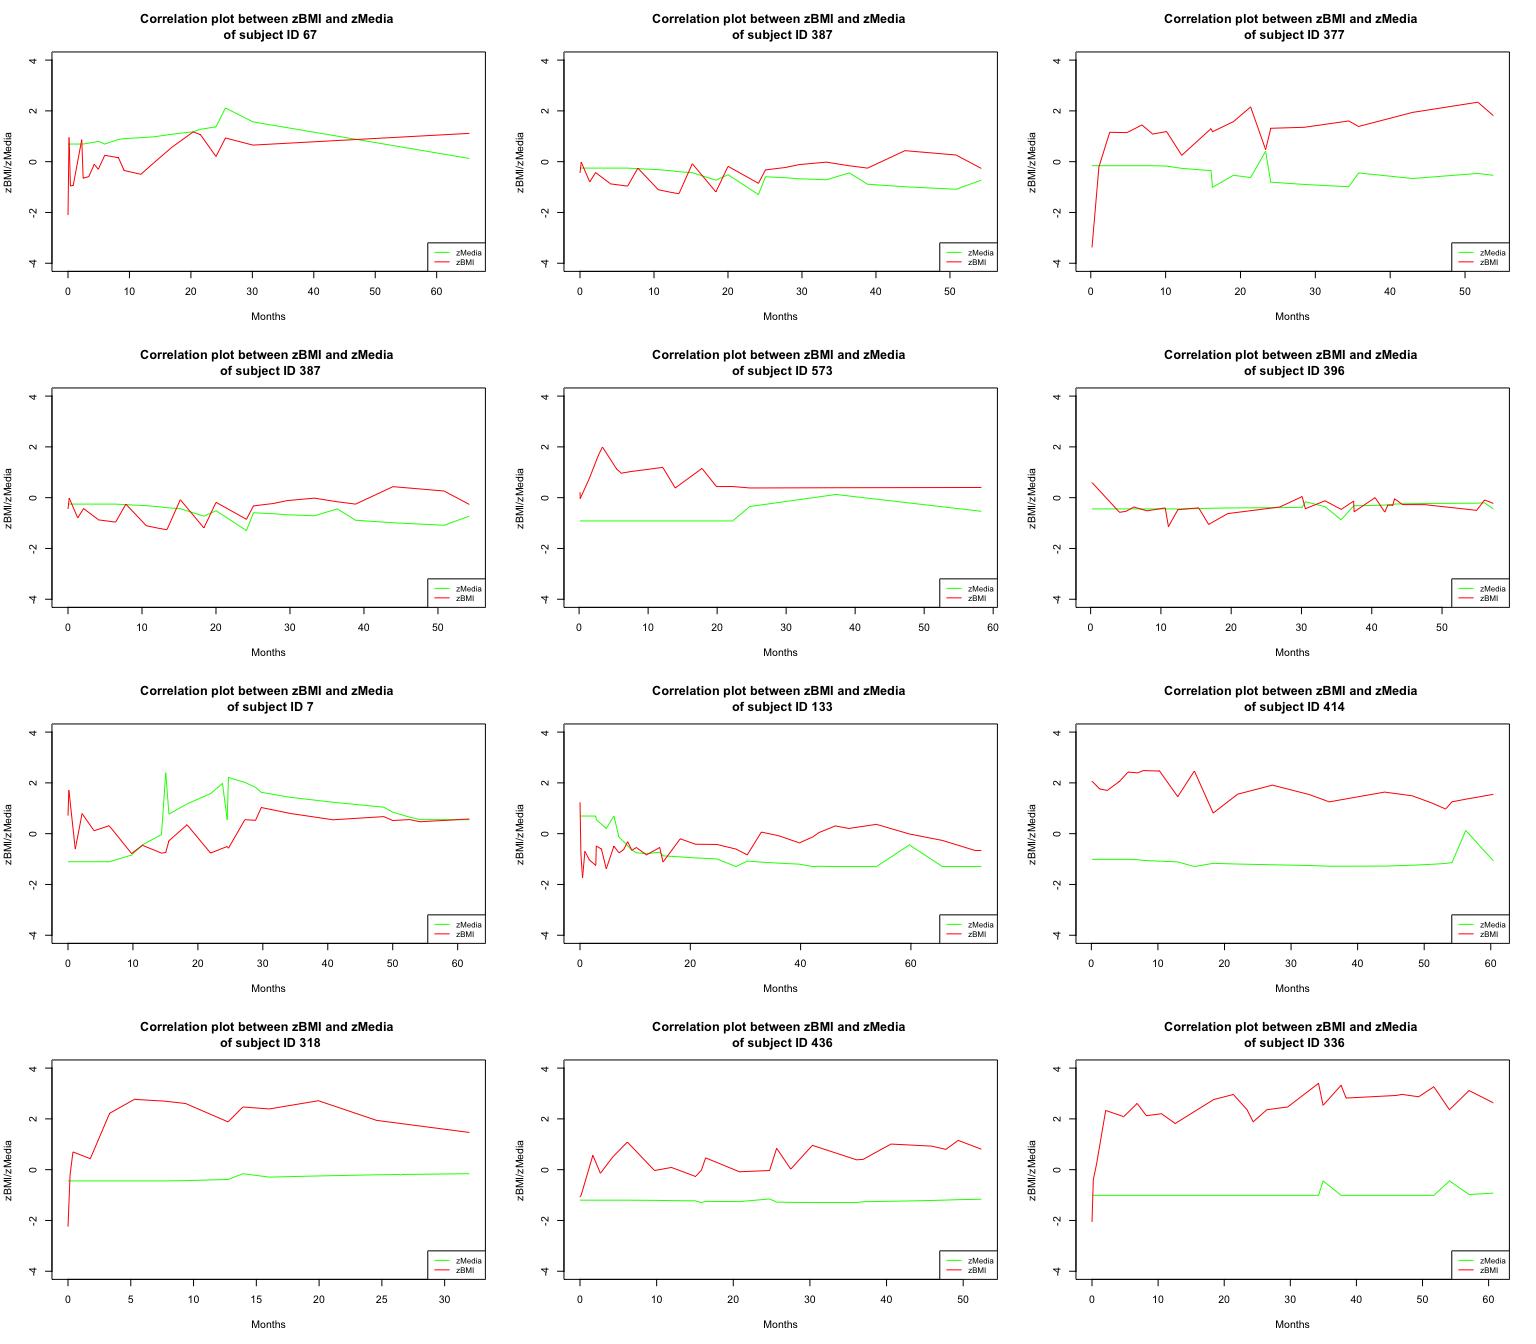
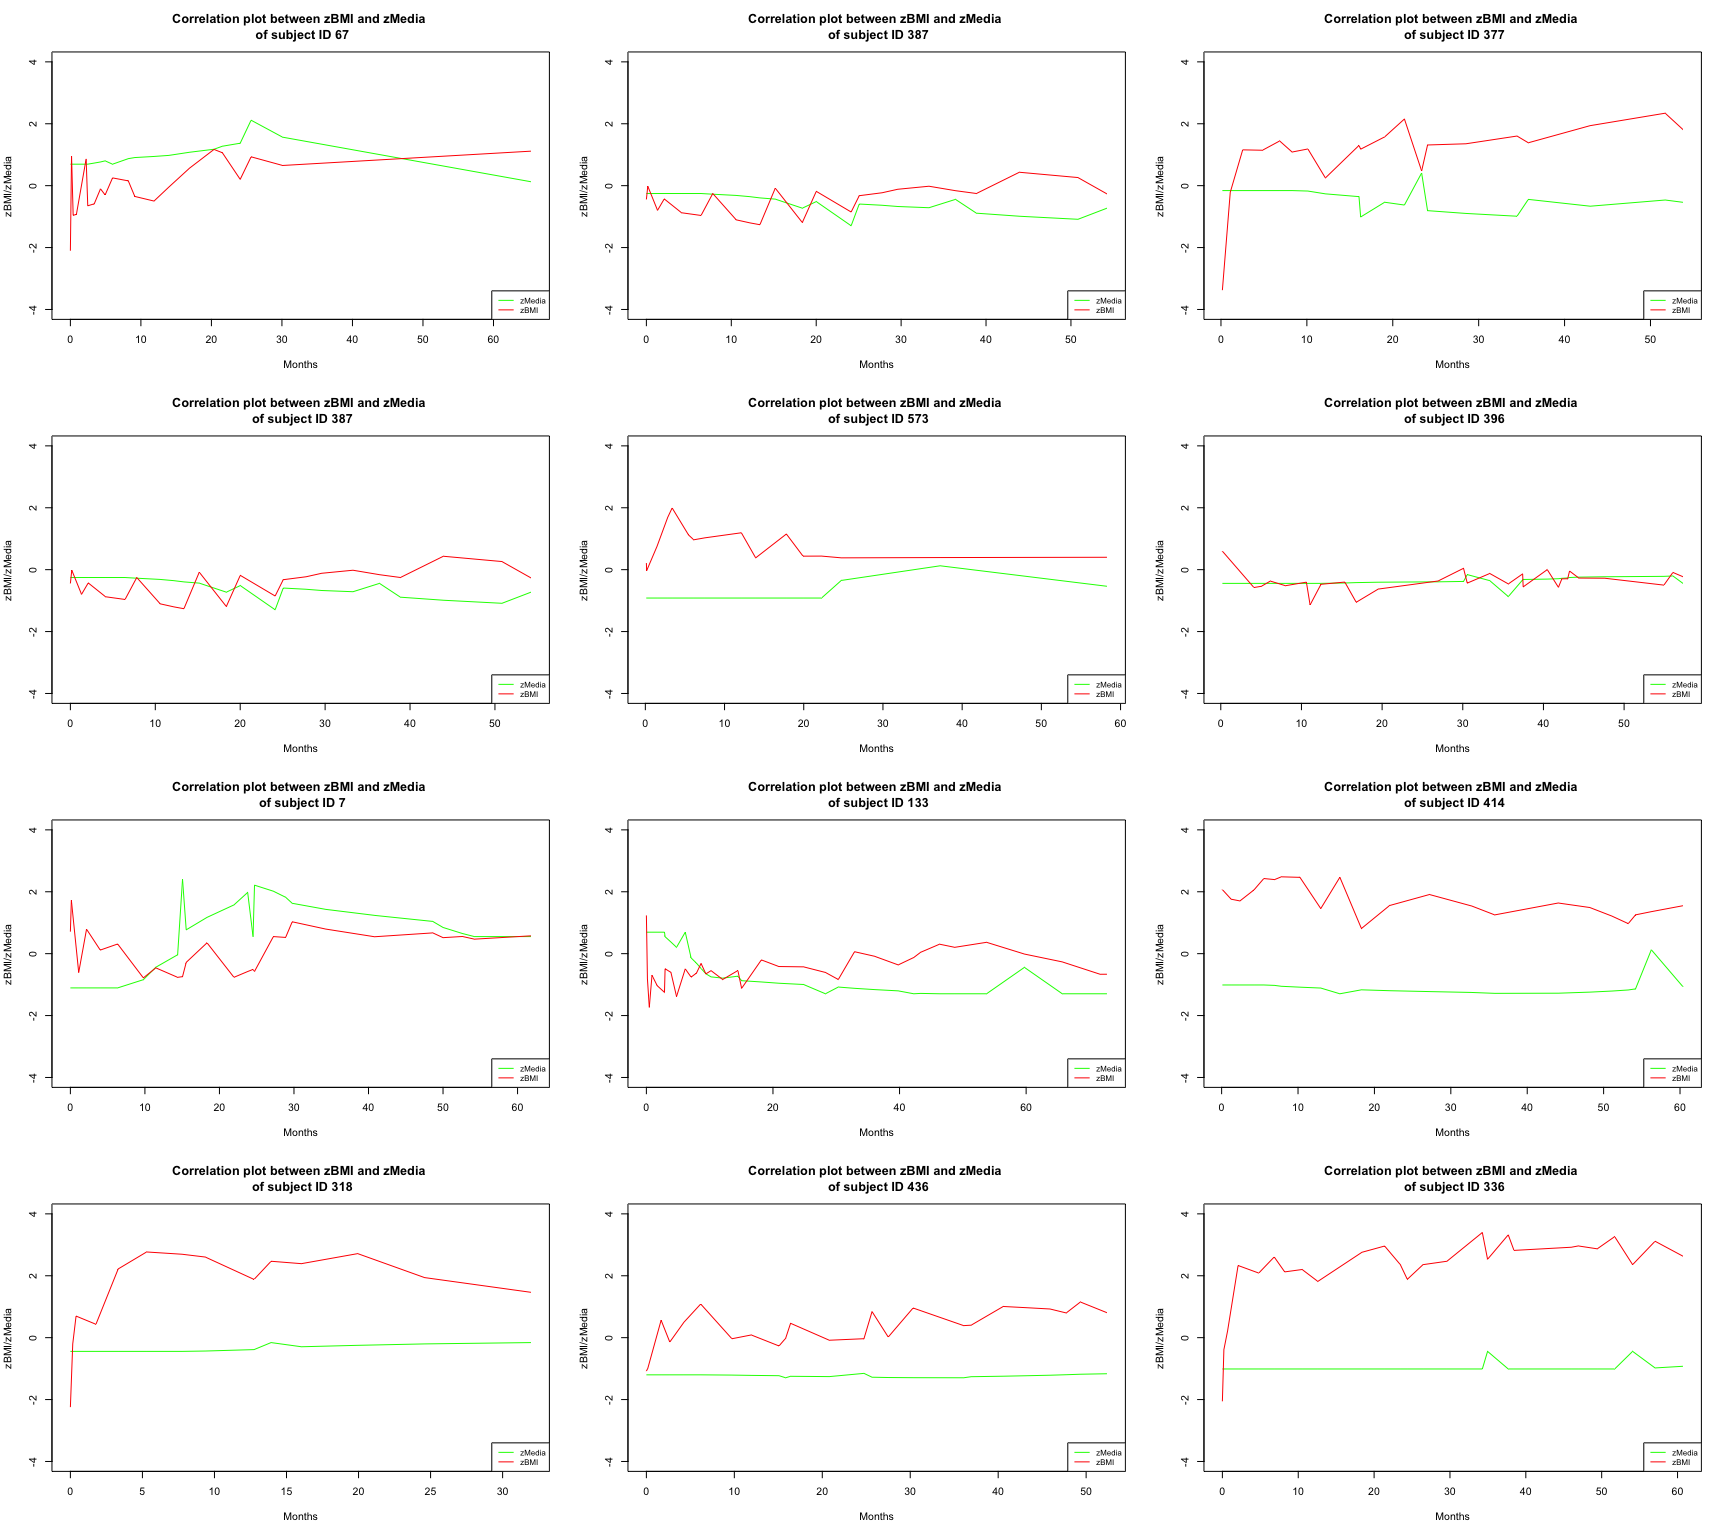
Increasing figure size

diff --git a/src/zarni/04_CorrelationPlots.md b/src/zarni/04_CorrelationPlots.md
@@ -1,6 +1,7 @@
 04\_Correlation Plots
 ================
 Zarni Htet
+April 11, 2018
 
 ### Introduction
 
